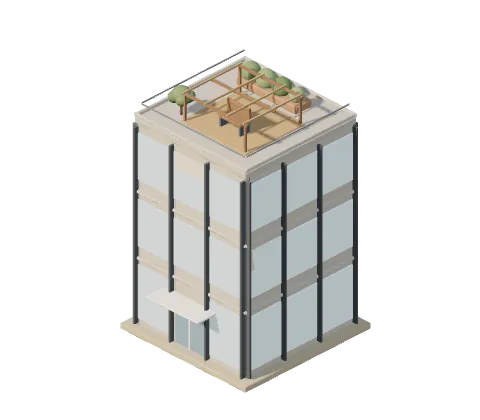
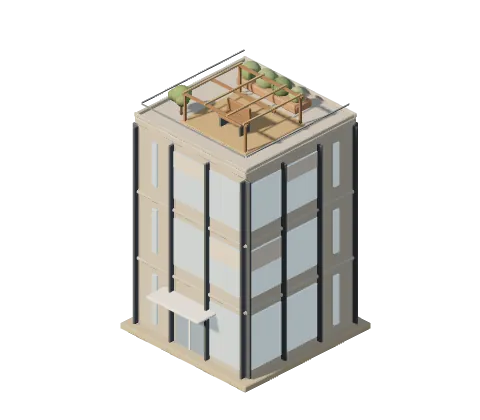
wip(top): 「ひらく町」磨き込み 途中保存(新しい町の止めた画像・時刻の切り替えの揃い・中の明るさの作業中)
Claude-Session: https://claude.ai/code/session_016dwt5JPBcjN3XLYgLUEaNS

diff --git a/proto/top-ad/hiraku2/interiors.js b/proto/top-ad/hiraku2/interiors.js
@@ -181,8 +181,10 @@ class Batch {
   }
 }
 /* 箱(中心の x・z と底の y)・最小最大の箱・円柱・球 */
-function bx(b, x, y, z, w, h, d, c, ry = 0, glow = 0) { b.add(G.box, mtx(x, y, z, w, h, d, ry), c, glow); }
-function bb(b, x0, x1, y0, y1, z0, z1, c, glow = 0) { bx(b, (x0 + x1) / 2, y0, (z0 + z1) / 2, x1 - x0, y1 - y0, z1 - z0, c, 0, glow); }
+function bx(b, x, y, z, w, h, d, c, ry = 0, glow = 0, flat = 0) { b.add(G.box, mtx(x, y, z, w, h, d, ry), c, glow, flat); }
+function bb(b, x0, x1, y0, y1, z0, z1, c, glow = 0, flat = 0) { bx(b, (x0 + x1) / 2, y0, (z0 + z1) / 2, x1 - x0, y1 - y0, z1 - z0, c, 0, glow, flat); }
+/* 窓のガラス(flat .15): 夕方から夜は、外の暗さ(深い藍)になる。部屋の灯りのにじみは受けない */
+const PANE = .15;
 function cy(b, x, y, z, r, h, c, seg6, glow = 0) { b.add(seg6 ? G.cyl6 : G.cyl, mtx(x, y, z, r * 2, h, r * 2), c, glow); }
 function sp(b, x, y, z, r, c, sy = 1, glow = 0) { b.add(G.sph, mtx(x, y, z, r * 2, r * 2 * sy, r * 2), c, glow); }
 /* 切り口の塗り: 藍の線は光を受けない平らな色(flat 1)。淡い面(cutLight)は光を受けるが、部屋の陰はつけない(flat .5。夜は暗くなる) */
@@ -236,7 +238,7 @@ function grp(b, x, y, z, ry = 0, s = 1) {
   const cs = Math.cos(ry) * s, sn = Math.sin(ry) * s;
   const P = (lx, lz) => [x + lx * cs + lz * sn, z - lx * sn + lz * cs];
   return {
-    box(lx, ly, lz, w, h, d, c, rx = 0, rz = 0, glow = 0) { const [wx, wz] = P(lx, lz); b.add(G.box, mtx(wx, y + ly * s, wz, w * s, h * s, d * s, ry, rx, rz), c, glow); return this; },
+    box(lx, ly, lz, w, h, d, c, rx = 0, rz = 0, glow = 0, flat = 0) { const [wx, wz] = P(lx, lz); b.add(G.box, mtx(wx, y + ly * s, wz, w * s, h * s, d * s, ry, rx, rz), c, glow, flat); return this; },
     rbox(lx, ly, lz, w, h, d, r, c) { const [wx, wz] = P(lx, lz); b.add(rbGeo(w * s, h * s, d * s, r * s), mtx(wx, y + ly * s, wz, 1, 1, 1, ry), c); return this; },
     cyl(lx, ly, lz, r, h, c, seg6, rx = 0, rz = 0, glow = 0) { const [wx, wz] = P(lx, lz); b.add(seg6 ? G.cyl6 : G.cyl, mtx(wx, y + ly * s, wz, r * 2 * s, h * s, r * 2 * s, ry, rx, rz), c, glow); return this; },
     sph(lx, ly, lz, r, c, sy = 1, glow = 0) { const [wx, wz] = P(lx, lz); b.add(G.sph, mtx(wx, y + ly * s, wz, r * 2 * s, r * 2 * sy * s, r * 2 * s, ry), c, glow); return this; },
@@ -250,11 +252,23 @@ function grp(b, x, y, z, ry = 0, s = 1) {
    室内の光(描画を増やさない。建物の中の座標で、画素ごとに):
      床は壁ぎわと隅ほど暗く / 壁と家具と人は床に近いほど暗く(接地) / 奥ほどわずかに暗く
      天井の灯り: 床に暖かいにじみ(灯りの列の下)、壁の上のほうに暖かい明るさ */
-const SELF_DAY = [.12, .11, .1], SELF_NIGHT = [.2, .16, .1], PSELF_DAY = [.13, .12, .11], PSELF_NIGHT = [.26, .21, .15];
-const LAMP_DAY = .24, LAMP_NIGHT = .62;
+const SELF_DAY = [.12, .11, .1], PSELF_DAY = [.13, .12, .11], LAMP_DAY = .24;
+/* 中の光の調子(昼・夕・夜。setNight の k は 0・.62・1)。町の光を、中ではこの割合で受ける:
+     dir 太陽と月(夜は弱く受け、屋根のない最上階に壁の影を落とさない)・pt ひらいた建物の灯り・amb 空の光
+   self は中の自分の光、pself は人の自分の光、lamp は天井の灯りのにじみ、top は最上階の灯り(屋根がないので、天井の灯りの代わり) */
+const GRADE = {
+  dir: [[1, 1, 1], [.86, .84, .82], [.3, .3, .32]],
+  pt: [[1, 1, 1], [.8, .74, .68], [.7, .62, .52]],
+  amb: [[1, 1, 1], [.86, .84, .86], [.5, .5, .56]],
+  self: [SELF_DAY, [.12, .1, .075], [.13, .1, .065]],
+  pself: [PSELF_DAY, [.17, .14, .11], [.24, .19, .14]],
+  lamp: [LAMP_DAY, .5, .9], top: [0, .18, .4]
+};
+const DUSK_K = .62, key3 = (k, a, b, c) => k <= DUSK_K ? lerp(a, b, k / DUSK_K) : lerp(b, c, (k - DUSK_K) / (1 - DUSK_K));
 function makeUniforms() {
   return {
     uSelf: { value: new THREE.Vector3(...SELF_DAY) }, uGlow: { value: 0 },
+    uDirK: { value: new THREE.Vector3(1, 1, 1) }, uPtK: { value: new THREE.Vector3(1, 1, 1) }, uAmbK: { value: new THREE.Vector3(1, 1, 1) }, uTop: { value: 0 },
     uRoom: { value: new THREE.Vector4(1, -1, 1, 1) },       // 側面の壁の内側(±x)・奥の壁の内側 z・前の z・階の高さ
     uRoom2: { value: new THREE.Vector4(2, 0, 0, 0) },       // 形(0 箱・1 塔・2 なし)・塔の半径・灯りの間隔・灯りの列の z
     uRoom3: { value: new THREE.Vector4(0, 0, 0, 0) },       // 灯りの列の x のずれ
@@ -296,22 +310,30 @@ float roomShade(out float pool) {
   float dx = sp > .01 ? mod(vLoc.x - uRoom3.x + sp * 50.5, sp) - sp * .5 : vLoc.x;
   float dz = vLoc.z - uRoom2.w;
   pool = exp(-(dx * dx + dz * dz) / .34) * (.5 + .5 * up) * (1.0 - .6 * smoothstep(fh * .55, fh, hy)) + smoothstep(fh * .5, fh * .98, hy) * vert * .5;
+  pool += uTop * step(uRoom3.y, vLoc.y) * (.6 + .4 * up);
   return shade;
 }`;
+/* 町の光の受け方(GRADE): 光の計算の中で、太陽と月・灯り・空の光に、それぞれ割合を掛ける */
+const LIGHTS_IN = [
+  ['getDirectionalLightInfo( directionalLight, directLight );', 'getDirectionalLightInfo( directionalLight, directLight );\n\t\tdirectLight.color *= uDirK;'],
+  ['getPointLightInfo( pointLight, geometryPosition, directLight );', 'getPointLightInfo( pointLight, geometryPosition, directLight );\n\t\tdirectLight.color *= uPtK;'],
+  ['irradiance += getHemisphereLightIrradiance( hemisphereLights[ i ], geometryNormal );', 'irradiance += getHemisphereLightIrradiance( hemisphereLights[ i ], geometryNormal ) * uAmbK;']
+].reduce((s, [a, b]) => s.replace(a, b), THREE.ShaderChunk.lights_fragment_begin);
 function inMat(u, o = {}) {
   const vc = o.vc !== false, glow = !!o.glow, flat = !!o.flat, ppl = !!o.ppl;
   const m = new THREE.MeshStandardMaterial({ vertexColors: vc, roughness: .86, metalness: 0 });
   m.onBeforeCompile = sh => {
-    for (const k of ['uSelf', 'uGlow', 'uRoom', 'uRoom2', 'uRoom3', 'uLamp']) sh.uniforms[k] = u[k];
+    for (const k of ['uSelf', 'uGlow', 'uRoom', 'uRoom2', 'uRoom3', 'uLamp', 'uDirK', 'uPtK', 'uAmbK', 'uTop']) sh.uniforms[k] = u[k];
     if (ppl) sh.uniforms.uPpl = u.uPpl;
     sh.vertexShader = sh.vertexShader
       .replace('#include <common>', '#include <common>\nvarying vec3 vLoc;\nvarying vec3 vNrm;' + (glow ? '\nattribute float aGlow;\nvarying float vGlow;' : '') + (flat ? '\nattribute float aFlat;\nvarying float vFlat;' : ''))
       .replace('#include <begin_vertex>', '#include <begin_vertex>\nvec4 lp = vec4(transformed, 1.0);\nvec3 ln = objectNormal;\n#ifdef USE_INSTANCING\nlp = instanceMatrix * lp;\nln = mat3(instanceMatrix) * ln;\n#endif\nvLoc = lp.xyz;\nvNrm = ln;' + (glow ? '\nvGlow = aGlow;' : '') + (flat ? '\nvFlat = aFlat;' : ''));
     sh.fragmentShader = sh.fragmentShader
-      .replace('#include <common>', '#include <common>\nuniform vec3 uSelf;\nuniform float uGlow;\nuniform vec4 uRoom;\nuniform vec4 uRoom2;\nuniform vec4 uRoom3;\nuniform vec4 uLamp;\nvarying vec3 vLoc;\nvarying vec3 vNrm;' + (glow ? '\nvarying float vGlow;' : '') + (flat ? '\nvarying float vFlat;' : '') + (ppl ? '\nuniform vec4 uPpl[' + NPPL + '];' : '') + ROOM_GLSL + (ppl ? PPL_GLSL : ''))
-      .replace('#include <color_fragment>', '#include <color_fragment>\nfloat pool = 0.0;\nfloat shade = roomShade(pool);' + (ppl ? '\nshade *= 1.0 - .32 * pplShade() * step(.6, normalize(vNrm).y);' : '') + (flat ? '\nfloat cutK = step(.25, vFlat);\nshade = mix(shade, 1.0, cutK);\npool *= 1.0 - cutK;' : '') + '\ndiffuseColor.rgb *= shade;')
+      .replace('#include <common>', '#include <common>\nuniform vec3 uSelf;\nuniform float uGlow;\nuniform vec4 uRoom;\nuniform vec4 uRoom2;\nuniform vec4 uRoom3;\nuniform vec4 uLamp;\nuniform vec3 uDirK;\nuniform vec3 uPtK;\nuniform vec3 uAmbK;\nuniform float uTop;\nvarying vec3 vLoc;\nvarying vec3 vNrm;' + (glow ? '\nvarying float vGlow;' : '') + (flat ? '\nvarying float vFlat;' : '') + (ppl ? '\nuniform vec4 uPpl[' + NPPL + '];' : '') + ROOM_GLSL + (ppl ? PPL_GLSL : ''))
+      .replace('#include <lights_fragment_begin>', LIGHTS_IN)
+      .replace('#include <color_fragment>', '#include <color_fragment>\nfloat pool = 0.0;\nfloat shade = roomShade(pool);' + (ppl ? '\nshade *= 1.0 - .32 * pplShade() * step(.6, normalize(vNrm).y);' : '') + (flat ? '\nfloat cutK = step(.25, vFlat), winK = step(.1, vFlat) * (1.0 - cutK);\nshade = mix(shade, 1.0, cutK);\npool *= (1.0 - cutK) * (1.0 - winK);\ndiffuseColor.rgb = mix(diffuseColor.rgb, vec3(.12, .15, .26), winK * smoothstep(.25, 1.0, uGlow / 2.3));' : '') + '\ndiffuseColor.rgb *= shade;')
       // 淡い切り口(cutK)は中の自分の光を受けない: 外の殻の切り口と同じ「普通に光を受ける面」にして、境目を見せない
-      .replace('#include <emissivemap_fragment>', '#include <emissivemap_fragment>\ntotalEmissiveRadiance += diffuseColor.rgb * (uSelf' + (flat ? ' * (1.0 - cutK)' : '') + ' + uLamp.rgb * (uLamp.a * pool))' + (glow ? ' + (mix(vec3(1.0, .8, .56), diffuseColor.rgb, .45) * max(vGlow, 0.0) + vec3(.62, .74, 1.0) * max(-vGlow, 0.0)) * uGlow' : '') + ';');
+      .replace('#include <emissivemap_fragment>', '#include <emissivemap_fragment>\ntotalEmissiveRadiance += diffuseColor.rgb * (uSelf' + (flat ? ' * (1.0 - cutK)' : '') + ' + uLamp.rgb * (uLamp.a * pool))' + (glow ? ' + (mix(vec3(1.0, .8, .56), diffuseColor.rgb, .45) * max(vGlow, 0.0) + vec3(.62, .74, 1.0) * max(-vGlow, 0.0)) * uGlow' : '') + ';' + (flat ? '\ntotalEmissiveRadiance += vec3(.03, .04, .085) * winK * smoothstep(.25, 1.0, uGlow / 2.3);' : ''));
     if (flat) sh.fragmentShader = sh.fragmentShader.replace('#include <opaque_fragment>', 'outgoingLight = mix(outgoingLight, diffuseColor.rgb, step(.75, vFlat));\n#include <opaque_fragment>');
   };
   m.customProgramCacheKey = () => 'hiraku-in2-' + (vc ? 'v' : 'i') + (glow ? 'g' : '') + (flat ? 'f' : '') + (ppl ? 'p' : '');
@@ -360,7 +382,7 @@ export function buildInterior(kind, box, ctx = {}) {
   const u = makeUniforms();
   const E = {
     kind, box, P, low, r: rng(kind.length * 131 + 7),
-    S: new Batch(), H: new Batch(), SC: new Batch(), HL: new Batch(), people: [], stations: [], rings: [], extra: {}, rugs: [], fc: [], movers: [],
+    S: new Batch(), H: new Batch(), SC: new Batch(), HL: new Batch(), people: [], stations: [], rings: [], extra: {}, rugs: [], fc: [], holders: [],
     noContact: kind === 'park',            // 公園の芝には床の陰を置かない(日の影に任せる)
     limbs: ctx.limbs !== false,
     floors: Math.max(1, box.floors | 0), fh: box.floors ? box.h / Math.max(1, box.floors | 0) : 0,
@@ -386,6 +408,7 @@ export function buildInterior(kind, box, ctx = {}) {
     const hx = box.w / 2 - .049, zb = -box.d / 2 + .049, zf = E.zf;
     u.uRoom.value.set(hx, zb, zf, E.fh); u.uRoom2.value.set(0, 0, E.lamps.sp, E.lamps.z); u.uRoom3.value.set(E.lamps.off, 0, 0, 0);
   }
+  u.uRoom3.value.y = E.floors > 1 ? E.fy(E.floors - 1) - .01 : 99;   // 最上階の床の高さ(1階だけの建物は、ひらいた建物の灯りが届くので足さない)
 
   const group = new THREE.Group(); group.name = 'interior-' + kind;
   const staticMat = inMat(u, { glow: true, flat: true, ppl: true });
@@ -431,6 +454,7 @@ export function buildInterior(kind, box, ctx = {}) {
 
   /* ---- 道具の物: 持ち上げと明るさ(頂点を書き換える。物はどれも小さいので軽い) ---- */
   const hBase = hGeo ? sGeo.attributes.position.array.slice(hOff * 3, (hOff + hN) * 3) : null, hCol = hGeo ? sGeo.attributes.color.array.slice(hOff * 3, (hOff + hN) * 3) : null;
+  const hNrm = hGeo ? sGeo.attributes.normal.array.slice(hOff * 3, (hOff + hN) * 3) : null;
   // 書き換えた範囲だけを送る
   const touch = (attr, v0, v1) => { attr.addUpdateRange(v0 * attr.itemSize, (v1 - v0) * attr.itemSize); attr.needsUpdate = true; };
   const scBase = scGeo ? scGeo.attributes.position.array.slice() : null;
@@ -518,19 +542,26 @@ export function buildInterior(kind, box, ctx = {}) {
       hlGeo.attributes.position.needsUpdate = true; hlGeo.attributes.color.needsUpdate = true;
     }
     if (cap) moveCapsule(t);
-    // 歩く人が持つ物(人の位置と向きに合わせて置き直す)
-    if (hGeo) for (const m of E.movers) {
-      const p = m.p, a = p.wry ?? p.ry, c = Math.cos(a), sn = Math.sin(a), bx2 = p.wx ?? p.x, bz2 = p.wz ?? p.z, by2 = p.wb || 0, Pp = sGeo.attributes.position.array;
-      for (let v = m.v[0]; v < m.v[1]; v++) { const o = (v + hOff) * 3, b = v * 3, lx = hBase[b], lz = hBase[b + 2]; Pp[o] = bx2 + lx * c + lz * sn; Pp[o + 1] = hBase[b + 1] + by2; Pp[o + 2] = bz2 - lx * sn + lz * c; }
-      touch(sGeo.attributes.position, m.v[0] + hOff, m.v[1] + hOff);
+    // 手に持つ物(そのときの手の位置と体の向きに置き直す。向きに合わせて面の向きも回す。見えない人の物は隠す)
+    if (hGeo) for (const m of E.holders) {
+      const p = m.p, Pp = sGeo.attributes.position.array, Nn = sGeo.attributes.normal.array, hide = (mode === 'night' && !p.night) || (mode !== 'night' && !p.day);
+      const q = poseOf(p, t), at = m.both ? handOf(p, 1, t).add(handOf(p, -1, t)).multiplyScalar(.5) : handOf(p, -1, t);
+      const a = q.ry + q.yawO, c = Math.cos(a), sn = Math.sin(a), y0 = hide ? -10 : at.y;
+      for (let v = m.v[0]; v < m.v[1]; v++) {
+        const o = (v + hOff) * 3, b = v * 3, lx = hBase[b], lz = hBase[b + 2], nx = hNrm[b], nz = hNrm[b + 2];
+        Pp[o] = at.x + lx * c + lz * sn; Pp[o + 1] = y0 + hBase[b + 1]; Pp[o + 2] = at.z - lx * sn + lz * c;
+        Nn[o] = nx * c + nz * sn; Nn[o + 2] = -nx * sn + nz * c;
+      }
+      touch(sGeo.attributes.position, m.v[0] + hOff, m.v[1] + hOff); touch(sGeo.attributes.normal, m.v[0] + hOff, m.v[1] + hOff);
     }
   }
   function setNight(k) {
     k = clamp01(k);
-    u.uSelf.value.set(...SELF_DAY.map((v, i) => lerp(v, SELF_NIGHT[i], k)));
+    const v3 = (un, g) => un.value.set(key3(k, g[0][0], g[1][0], g[2][0]), key3(k, g[0][1], g[1][1], g[2][1]), key3(k, g[0][2], g[1][2], g[2][2]));
+    v3(u.uSelf, GRADE.self); v3(u.uDirK, GRADE.dir); v3(u.uPtK, GRADE.pt); v3(u.uAmbK, GRADE.amb);
     u.uGlow.value = lerp(0, 2.3, k);
-    u.uLamp.value.w = lerp(LAMP_DAY, LAMP_NIGHT, k);
-    if (ppl) ppl.uniforms.uSelf.value.set(...PSELF_DAY.map((v, i) => lerp(v, PSELF_NIGHT[i], k)));
+    u.uLamp.value.w = key3(k, ...GRADE.lamp); u.uTop.value = key3(k, ...GRADE.top);
+    if (ppl) v3(ppl.uniforms.uSelf, GRADE.pself);
     if (Math.abs(nightK - k) > 1e-3) { nightK = k; E.stations.forEach(writeStation); }
   }
   setNight(0);
@@ -676,22 +707,18 @@ function handOf(p, side, t = 0) {
   _qA.multiply(_qT.setFromAxisAngle(AXX, -e));
   return el.add(_v2.set(0, -LIMB.fore, 0).applyQuaternion(_qA));
 }
-/* 手に持つ物。両手の間(本・カード)か、左手(カルテ・カップ)に置き、人の向きに合わせる */
+/* 手に持つ物。両手の間(本・カード・運ぶ板)か、左手(カルテ・カップ)に。
+   手を原点・人の向きを 0 とした形で作り、毎フレーム、そのときの手の位置と体の向きに置き直す
+   (話す人の体の揺れや、歩く人についていく。人が帰って見えない時間は、物も隠す) */
 function held(E, p) {
   if (!p.hold) return;
-  const P = E.P, both = p.kind === 'read' || p.carry, q = poseOf(p, 0);
-  const hR = handOf(p, 1), hL = handOf(p, -1), at = both ? hR.clone().add(hL).multiplyScalar(.5) : hL;
-  const moving = p.kind === 'walk';
-  // 歩く人の物は、人の足もとを原点・人の向きを 0 とした座標で作り、毎フレーム人に合わせて置き直す
-  let lx = 0, lz = 0;
-  if (moving) { const dx = at.x - q.x, dz = at.z - q.z, c = Math.cos(q.ry), s2 = Math.sin(q.ry); lx = dx * c - dz * s2; lz = dx * s2 + dz * c; }
-  const B = moving ? E.H : E.S, v0 = B.n, g = moving ? grp(B, 0, at.y - q.bob, 0, 0) : grp(B, at.x, at.y, at.z, q.ry + q.yawO);
-  if (p.hold === 'book') g.box(lx - .026, .012, lz, .05, .005, .064, P.paper, 0, .22).box(lx + .026, .012, lz, .05, .005, .064, P.paper, 0, -.22).box(lx, .006, lz, .1, .006, .068, P.books[(p.li ?? 3) % P.books.length]);
-  else if (p.hold === 'card') g.box(lx, .01, lz, .05, .004, .07, P.paper, -.6);
-  else if (p.hold === 'chart') g.box(lx, -.04, lz + .01, .055, .075, .006, P.woodDark, -.25).box(lx, -.036, lz + .014, .048, .062, .003, P.paper, -.25);
-  else if (p.hold === 'clip') g.box(lx, .0, lz, .07, .006, .09, P.woodDark, -.5).box(lx, .004, lz, .062, .004, .078, P.paper, -.5);
-  else if (p.hold === 'cup') g.cyl(lx, -.006, lz, .013, .024, P.trim).cyl(lx, .017, lz, .011, .002, '#6B4A35');
-  if (moving) E.movers.push({ p, v: [v0, B.n] });
+  const P = E.P, B = E.H, v0 = B.n, g = grp(B, 0, 0, 0, 0);
+  if (p.hold === 'book') g.box(-.026, .012, 0, .05, .005, .064, P.paper, 0, .22).box(.026, .012, 0, .05, .005, .064, P.paper, 0, -.22).box(0, .006, 0, .1, .006, .068, P.books[3 % P.books.length]);
+  else if (p.hold === 'card') g.box(0, .01, 0, .05, .004, .07, P.paper, -.6);
+  else if (p.hold === 'chart') g.box(0, -.04, .01, .055, .075, .006, P.woodDark, -.25).box(0, -.036, .014, .048, .062, .003, P.paper, -.25);
+  else if (p.hold === 'clip') g.box(0, 0, 0, .07, .006, .09, P.woodDark, -.5).box(0, .004, 0, .062, .004, .078, P.paper, -.5);
+  else if (p.hold === 'cup') g.cyl(0, -.006, 0, .013, .024, P.trim).cyl(0, .017, 0, .011, .002, '#6B4A35');
+  E.holders.push({ p, both: p.kind === 'read' || !!p.carry, v: [v0, B.n] });
 }
 /* 手に持つ物を、すべての人に(話す組の向きが決まったあとで)置く */
 function heldAll(E) { for (const p of E.people) held(E, p); }
@@ -814,7 +841,7 @@ function pendants(E, yc) {
 function backWindow(E, x, y, w, h, zb) {
   const S = E.S, P = E.P;
   bb(S, x - w / 2 - .02, x + w / 2 + .02, y - .02, y + h + .02, zb, zb + .012, P.trim);
-  bb(S, x - w / 2, x + w / 2, y, y + h, zb + .006, zb + .016, mix(P.glass, '#DDEBF2', .45));
+  bb(S, x - w / 2, x + w / 2, y, y + h, zb + .006, zb + .016, mix(P.glass, '#DDEBF2', .45), 0, PANE);
   bb(S, x - .006, x + .006, y, y + h, zb + .016, zb + .02, P.trim);
 }
 
@@ -864,7 +891,7 @@ function station(E, id, o) {
   }
   S.h = [h0, E.H.n];
   // 夜、画面の光が机に落ちる所(昼は面の色のままで見えない)。o.spill: [x, y, z, 幅, 奥行き, 面の色](物の座標)
-  if (o.spill) { const [lx2, ly2, lz2, sw2, sd2, sc2] = o.spill, cs2 = Math.cos(base.ry), sn2 = Math.sin(base.ry), q2 = base.s; E.S.add(spillGeo(sw2 * q2, sd2 * q2, .05), mtx(base.x + (lx2 * cs2 + lz2 * sn2) * q2, base.y + ly2 * q2 + .0016, base.z + (-lx2 * sn2 + lz2 * cs2) * q2, 1, 1, 1, base.ry), sc2, -.3); }
+  if (o.spill) { const [lx2, ly2, lz2, sw2, sd2, sc2] = o.spill, cs2 = Math.cos(base.ry), sn2 = Math.sin(base.ry), q2 = base.s; E.S.add(spillGeo(sw2 * q2, sd2 * q2, .05), mtx(base.x + (lx2 * cs2 + lz2 * sn2) * q2, base.y + ly2 * q2 + .0016, base.z + (-lx2 * sn2 + lz2 * cs2) * q2, 1, 1, 1, base.ry), sc2, -.17); }
   // 画面: 物の座標(sx, sy, sz)に、幅 sw・高さ sh、向き(ry と、上向きの傾き tilt。0=正面を向く、π/2=上を向く)
   const q = base.s, sc = Object.assign({}, o.screen, { x: o.screen.x * q, y: o.screen.y * q, z: o.screen.z * q, w: o.screen.w * q, h: o.screen.h * q });
   const cs = Math.cos(base.ry), sn = Math.sin(base.ry);
@@ -1018,7 +1045,7 @@ const BUILD = {
       // 窓(奥の壁に2つ)
       for (const a of [-.55, .55]) {
         const ax = Math.sin(a) * (R - .01), az = -Math.cos(a) * (R - .01);
-        grp(S, ax, y + .5 * k, az, -a).box(0, 0, 0, .16 * k, .28 * k, .012, P.trim).box(0, .02, .006, .12 * k, .24 * k, .01, mix(P.glass, '#DDEBF2', .45));
+        grp(S, ax, y + .5 * k, az, -a).box(0, 0, 0, .16 * k, .28 * k, .012, P.trim).box(0, .02, .006, .12 * k, .24 * k, .01, mix(P.glass, '#DDEBF2', .45), 0, 0, 0, PANE);
       }
     }
     // らせん階段(壁に沿って、各階から上の階へ)

diff --git a/proto/top-ad/hiraku2/index.html b/proto/top-ad/hiraku2/index.html
@@ -30,7 +30,7 @@
   --jp:'BIZ UDPGothic','Hiragino Sans','Noto Sans JP',sans-serif;
   --en:'Barlow','Helvetica Neue',Arial,sans-serif;
   --ease:cubic-bezier(.2,.8,.2,1);
-  --cl:10.0;--cr:82.3;--ct:5.7;--cb:66.9;
+  --cl:11.9;--cr:82.2;--ct:6.7;--cb:66.2;
 }
 *,*::before,*::after{box-sizing:border-box}
 html{-webkit-text-size-adjust:100%;background:var(--paper)}
@@ -76,6 +76,7 @@ html[data-tod="night"] .hero::after{background:linear-gradient(180deg,rgba(13,21
 .sky .s-night{background:radial-gradient(70% 50% at 66% 30%,rgba(108,124,214,.3),rgba(108,124,214,0) 70%),linear-gradient(180deg,var(--sky-n1) 0%,var(--sky-n2) 55%,var(--sky-n3) 100%)}
 .stars{position:absolute;inset:0;background-image:radial-gradient(1.4px 1.4px at 12% 18%,#fff 98%,transparent),radial-gradient(1px 1px at 28% 32%,#fff 98%,transparent),radial-gradient(1.4px 1.4px at 44% 12%,#fff 98%,transparent),radial-gradient(1px 1px at 62% 24%,#fff 98%,transparent),radial-gradient(1.4px 1.4px at 81% 10%,#fff 98%,transparent),radial-gradient(1px 1px at 90% 36%,#fff 98%,transparent),radial-gradient(1px 1px at 55% 6%,#fff 98%,transparent),radial-gradient(1px 1px at 7% 44%,#fff 98%,transparent),radial-gradient(1.4px 1.4px at 94% 58%,#fff 98%,transparent);opacity:.8}
 html[data-tod="day"] .s-day,html[data-tod="dusk"] .s-dusk,html[data-tod="night"] .s-night,html:not([data-tod]) .s-day{opacity:1}
+html.skylive .sky i{transition:none}   /* 立体が動いているときは、空の濃さを立体の時刻から決める(hiraku.js の skyMix) */
 html:not(.js) #poster{display:none}
 
 #world{position:absolute;inset:0;width:100%;height:100%;opacity:0;transition:opacity .5s var(--ease);touch-action:pan-y;-webkit-tap-highlight-color:transparent}
@@ -351,14 +352,14 @@ html.capture body > *:not(#cap){display:none!important}
     <p class="meta">10の質問・約3分・登録不要</p>
   </div>
   <nav class="hits" id="hits" aria-label="町の建物">
-    <a class="hit" href="#g-hospital" data-id="hospital" data-tag="49.05,23.8" data-box="37.25,20.3,65.5,47.27" data-nudge="54.22,28.77" aria-label="病院 — 明日の業務を楽にする"></a>
-    <a class="hit" href="#g-observatory" data-id="observatory" data-tag="62.51,5.83" data-box="54.83,3.19,70.2,40.09" aria-label="展望台 — キャリア・経験を整理する"></a>
-    <a class="hit" href="#g-clinic" data-id="clinic" data-tag="70.97,52.89" data-box="62.02,48.98,80.69,68.1" aria-label="クリニック — 医療経営を学ぶ"></a>
-    <a class="hit" href="#g-office" data-id="office" data-tag="74.44,21.16" data-box="66.31,17.29,82.57,44.65" aria-label="事務所 — 経営・管理の実務に使う"></a>
-    <a class="hit" href="#g-library" data-id="library" data-tag="20.66,33.27" data-box="7.51,28.5,30.42,56.18" aria-label="図書館 — 学習を続ける"></a>
-    <a class="hit" href="#g-park" data-id="park" data-tag="76.42,47.46" data-box="66.72,40.65,86.11,59.18" aria-label="公園 — 気軽に試す・作品を楽しむ"></a>
-    <a class="hit" href="#g-atelier" data-id="atelier" data-tag="26.38,51.15" data-box="19.25,47.66,33.87,66.63" aria-label="アトリエ — 運営者"></a>
-    <a class="hit" href="#g-plaza" data-id="plaza" data-tag="48.02,48.91" data-box="35.88,49.39,60.16,64.76" aria-label="広場 — 正解を与えるのではなく、選択肢を増やす"></a>
+    <a class="hit" href="#g-hospital" data-id="hospital" data-tag="49.93,24.31" data-box="38.46,20.91,65.92,47.13" data-nudge="54.95,29.14" aria-label="病院 — 明日の業務を楽にする"></a>
+    <a class="hit" href="#g-observatory" data-id="observatory" data-tag="63.02,6.84" data-box="55.55,4.28,70.49,40.14" aria-label="展望台 — キャリア・経験を整理する"></a>
+    <a class="hit" href="#g-clinic" data-id="clinic" data-tag="71.24,52.59" data-box="62.54,48.79,80.68,67.37" aria-label="クリニック — 医療経営を学ぶ"></a>
+    <a class="hit" href="#g-office" data-id="office" data-tag="74.61,21.74" data-box="66.71,17.99,82.51,44.58" aria-label="事務所 — 経営・管理の実務に使う"></a>
+    <a class="hit" href="#g-library" data-id="library" data-tag="22.33,33.52" data-box="9.55,28.88,31.82,55.79" aria-label="図書館 — 学習を続ける"></a>
+    <a class="hit" href="#g-park" data-id="park" data-tag="76.54,47.31" data-box="67.11,40.69,85.96,58.71" aria-label="公園 — 気軽に試す・作品を楽しむ"></a>
+    <a class="hit" href="#g-atelier" data-id="atelier" data-tag="27.9,50.9" data-box="20.96,47.51,35.17,65.95" aria-label="アトリエ — 運営者"></a>
+    <a class="hit" href="#g-plaza" data-id="plaza" data-tag="47.82,48.39" data-box="36.02,49.19,59.62,64.13" aria-label="広場 — 正解を与えるのではなく、選択肢を増やす"></a>
   </nav>
   <p class="hint" id="hint">建物にふれると、中がひらきます</p>
 </section>

diff --git a/proto/top-ad/hiraku2/hiraku.js b/proto/top-ad/hiraku2/hiraku.js
@@ -31,7 +31,14 @@ function boot() {
   const store = { get(k) { try { return localStorage.getItem(k); } catch (e) { return null; } }, set(k, v) { try { localStorage.setItem(k, v); } catch (e) { /* 使えなくても壊れない */ } } };
   let nudgeOn = !store.get('bridge-hiraku-touched') && Q.get('nudge') !== '0';   // 最初の訪問だけ
 
-  /* ---------- 昼・夕・夜(ボタンで 昼 → 夕 → 夜 → 昼) ---------- */
+  /* ---------- 昼・夕・夜(ボタンで 昼 → 夕 → 夜 → 昼) ----------
+     立体が動いているときは、ページの空(3枚の層)の濃さを立体の時刻(0 昼・1 夕・2 夜)から決める。夜 → 昼も夕方を通り、立体と同じ速さで移る */
+  const skyL = [$('.sky .s-day'), $('.sky .s-dusk'), $('.sky .s-night')];
+  function skyMix(x) {
+    x = Math.max(0, Math.min(2, x));
+    const op = [Math.max(0, 1 - x), Math.max(0, 1 - Math.abs(x - 1)), Math.max(0, x - 1)];
+    skyL.forEach((el, i) => { if (el) el.style.opacity = op[i].toFixed(3); });
+  }
   const btnTod = $('#btnTod'), btnPause = $('#btnPause');
   const todLabel = () => ({ day: '夕方にする', dusk: '夜にする', night: '昼にする' })[R.dataset.tod];
   btnTod.setAttribute('aria-label', todLabel());
@@ -311,6 +318,7 @@ function boot() {
         onHover(id) { hoverId = id; if (openId) return; if (id) { firstTouchSoft(); showTag(id, true, true); } else showTag(null); },
         onPress(id) { firstTouch(); ringAt(id); },
         onQuality(q) { store.set('bridge-hiraku-q', q); },
+        onTod(x) { R.classList.add('skylive'); skyMix(x); },
         onPick(id) { firstTouch(); if (id === openId) { if (findNow()) { clearFind(); applyFind(); } return; } openB(id, hits.get(id)); },
         onEmpty() { if (!openId) return; if (findNow()) { clearFind(); applyFind(); } else closeB(false); },   // 寄っているときは、まず建物ぜんたいに戻る
         onStation(sid, how) {

diff --git a/proto/top-ad/hiraku2/live.js b/proto/top-ad/hiraku2/live.js
@@ -599,14 +599,15 @@ export async function live(o) {
     signMats();
     U.uTime.value = t;
     // 昼・夕・夜
-    if (tod.moving) { const g = applyTod(L, renderer, tod.x); for (const id in interiors) interiors[id] && interiors[id].setNight && interiors[id].setNight(g); }
+    if (tod.moving) { const g = applyTod(L, renderer, tod.x); for (const id in interiors) interiors[id] && interiors[id].setNight && interiors[id].setNight(g); o.onTod && o.onTod(tod.x); }   // ページの空も、同じ道筋(夕方を通る)・同じ速さで
     // 中の灯り
     if (A.id || Bk.id) {
       const id = A.id || Bk.id; if (id !== 'plaza') { const pl = placeOf(S, id), il = inLightOf(id); L.pIn.position.copy(il.p).applyAxisAngle(Y, pl.yaw).add(pl.p); L.pIn.distance = il.dist; inK = il.k; }
     }
     L.pIn.intensity = Math.max(0, inLight.x) * (1.4 + U.uNight.value * 2) * inK;
     L.pH.intensity = (L.pH.userData.base || 0) * ((A.id || Bk.id) === 'plaza' ? 1 : 1 - 1.4 * U.uDim.value);   // 建物をひらいている間は、広場の灯りを半分に(寄ったとき白く飛ばない)
-    // 町の暮らし
+    // 町の暮らし(止めているあいだに時刻を変えたときも、空・雲・もやの色だけは合わせる)
+    if (paused && tod.moving) placeSky(S.dyn, t, U.uNight.value);
     if (!paused) {
       const blockedAng = A.id && A.kind === 'hinge' && A.id !== 'hospital' ? deg(LAYOUT[A.id].a) : null;
       const blocked = A.id && A.kind === 'hinge' ? footprint(A) : null;
